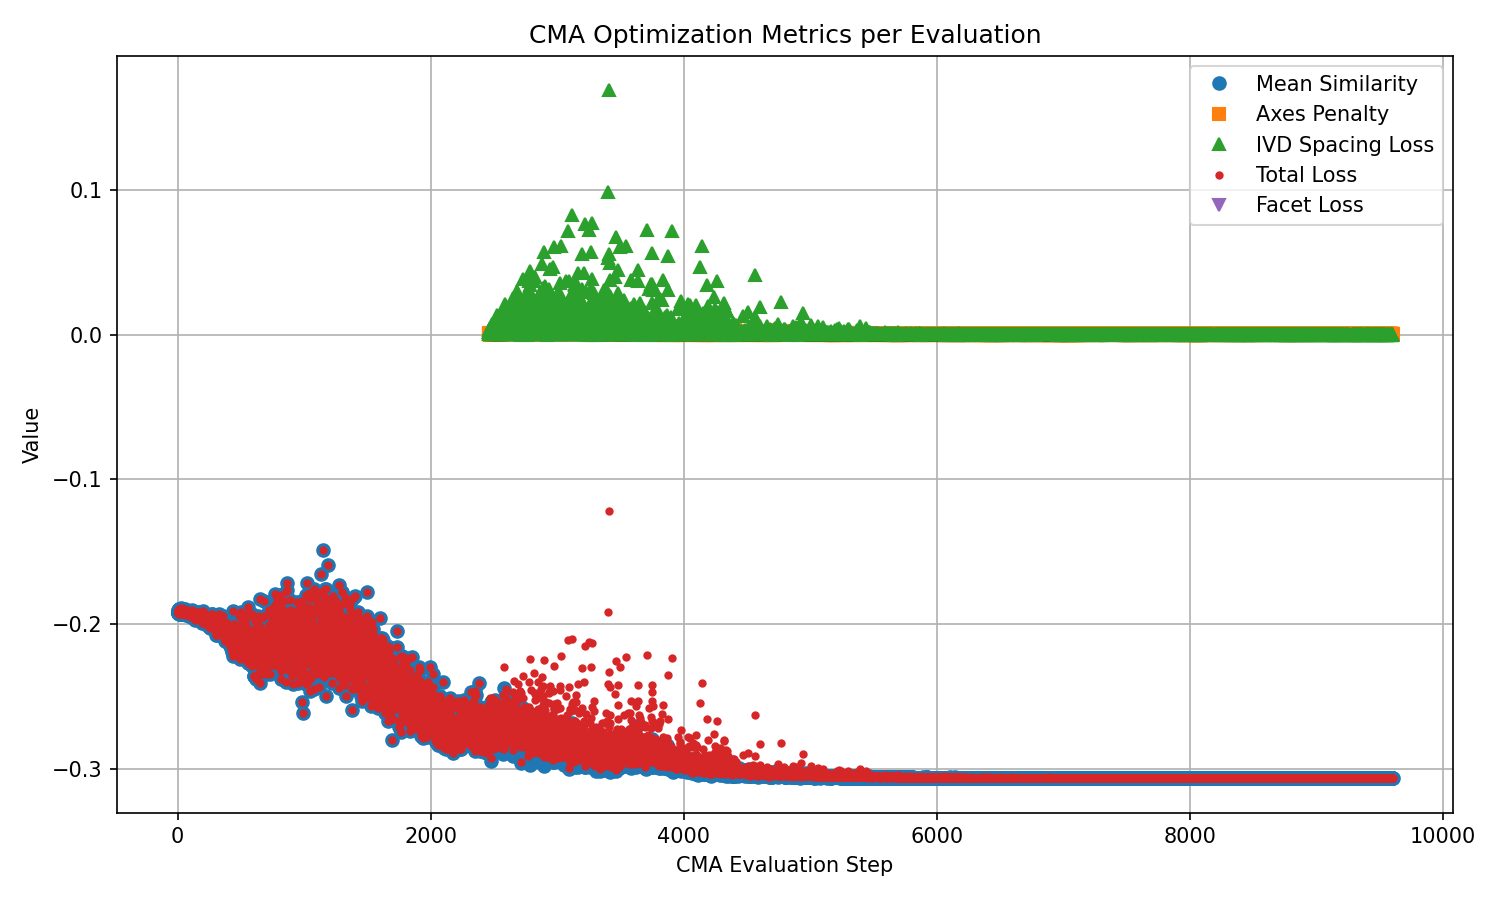
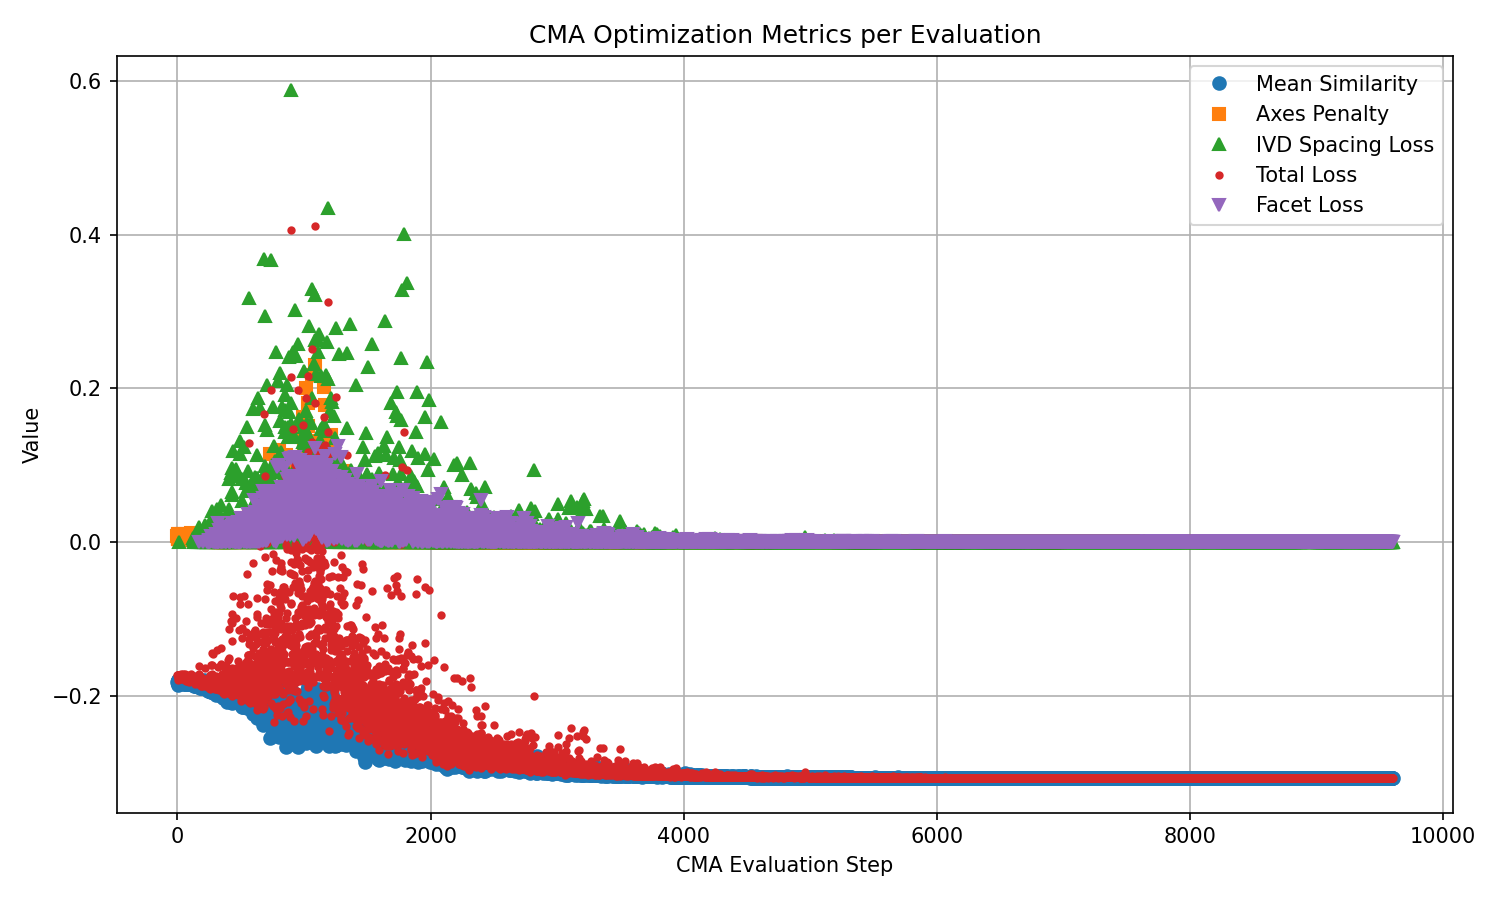
rectified US image changes, sub-mm accuracy

diff --git a/groupwise_GPU.py b/groupwise_GPU.py
@@ -54,20 +54,20 @@ def get_experiment_settings(exp_type):
     if exp_type == ExperimentType.NORMAL:
         return {
             "us_files": ["US_complete_cal.nrrd"],
-            "perturb": True,
+            "perturb": False,
             "n_runs": 1
         }
     
     if exp_type == ExperimentType.FULL_SWEEP:
         return {
-            "us_files": ["US_complete_cal.nrrd"],
+            "us_files": ["US_full_L3_dropoutref_cal.nrrd"],
             "perturb": True,
             "n_runs": 10
         }
     
     if exp_type == ExperimentType.MISSING_DATA:
         return {
-            "us_files": ["US_full_L3_dropoutref_cal.nrrd"],
+            "us_files": ["US_missing_combined.nrrd"],
             "perturb": False,
             "n_runs": 30
         }
@@ -100,7 +100,7 @@ def init_results():
     }
 
 
-def success_from_tre(tre_dict, thresh=2.0):
+def success_from_tre(tre_dict, thresh=2.01):
     """check success per vertebra and overall"""
     per_vertebra = {}
     for case, tre in tre_dict.items():
@@ -166,17 +166,27 @@ def evaluate_group_cpu(flat_params, K, centers, sampled_positions_list,
 
         valid_mask = moving_intensities > 0
         n_valid = valid_mask.sum()
+
         if n_valid > 0:
-            total_sim += float(np.mean(moving_intensities[valid_mask]))
+            # Only compute similarity on valid US data points
+            sim = float(np.mean(moving_intensities[valid_mask]))
+            total_sim += sim
             num_valid_cases += 1
 
+        # sim = float(np.mean(moving_intensities)) # original mean
+        # total_sim += sim
+        
         # move centroids
-        ct_centroid = np.array(case_centroids[k], dtype=np.float64)
-        moved_centroid = np.array(tx_inv.TransformPoint(ct_centroid.tolist()))
-        moved_centroids.append(moved_centroid)
+        ct_centroid = torch.tensor(case_centroids[k], device=device, dtype=torch.float32)
+        moved_centroid = torch.tensor(tx_inv.TransformPoint(ct_centroid.cpu().numpy().tolist()), device=device)
+        moved_centroids.append(moved_centroid.cpu().numpy())
 
-    mean_sim = total_sim / float(K)
 
+    mean_sim = (total_sim / float(K)) # original computation
+    # mean_sim = (total_sim / float(num_valid_cases)) ** 1 # other computation , was ** 1.5
+
+
+    # CONSTRAINT VALUES
     # lambda_axes = 0
     lambda_axes = 0.01
     # lambda_axes = linear_lambda(iteration, max_iter, lambda_final=0.01,  start_frac=0.25)
@@ -188,7 +198,7 @@ def evaluate_group_cpu(flat_params, K, centers, sampled_positions_list,
     # lambda_ivd  = linear_lambda(iteration, max_iter, lambda_final=0.002, start_frac=0.25)
     # lambda_ivd   = linear_lambda(iteration, max_iter, lambda_final=0.002, start_frac=0.2)
     
-    lambda_facet = 0.0
+    lambda_facet = 0.001
 
     axes_margins = {
         'LM': 2.0,
@@ -238,8 +248,8 @@ def run_single_registration(fixed_file, cases_dir, mesh_dir, output_dir, case_na
 
     # PERTURBATION
     if apply_perturbation:
-        rot   = np.deg2rad(rng.uniform(-8.0, 8.0, size=3))
-        trans = rng.uniform(-8.0, 8.0, size=3)
+        rot   = np.deg2rad(rng.uniform(-10.0, 10.0, size=3))
+        trans = rng.uniform(-10.0, 10.0, size=3)
         global_perturbation = np.concatenate([rot, trans])
         print(f"\nApplied random perturbation (seed={rng_seed}):")
         print(f"  Rotation (deg): {np.rad2deg(global_perturbation[:3])}")
@@ -250,7 +260,7 @@ def run_single_registration(fixed_file, cases_dir, mesh_dir, output_dir, case_na
     # PRE-PROCESS ULTRASOUND IMAGE
     print("Preprocessing US image...")
     preprocess_start = time.time()
-    enhanced_us_data, us_header = preprocess_US(fixed_file, False, method='none', sigma=1.0, size=5)
+    enhanced_us_data, us_header = preprocess_US(fixed_file, False, method='top-hat', sigma=1.0, size=5)
     preprocess_time = time.time() - preprocess_start
     print(f"  Preprocessing completed in {preprocess_time:.2f}s")
 
@@ -295,8 +305,8 @@ def run_single_registration(fixed_file, cases_dir, mesh_dir, output_dir, case_na
         )
         centers.append(center)
 
-        target_file = f"/usr/local/data/elise/pig_data/pig2/Registration/Known_Trans/sofa3/landmarks/US_{case}_landmarks.mrk.json"
-        source_file = f"/usr/local/data/elise/pig_data/pig2/Registration/Known_Trans/sofa3/landmarks/CT_{case}_landmarks_intra.mrk.json"
+        target_file = f"/usr/local/data/elise/pig_data/pig2/Registration/Known_Trans/sofa6/landmarks/US_{case}_landmarks.mrk.json"
+        source_file = f"/usr/local/data/elise/pig_data/pig2/Registration/Known_Trans/sofa6/landmarks/CT_{case}_landmarks_intra.mrk.json"
 
         try:
             fixed_lm_parser  = SlicerJsonTagParser(target_file)
@@ -355,7 +365,7 @@ def run_single_registration(fixed_file, cases_dir, mesh_dir, output_dir, case_na
         max_iter=max_iter,
         device='cpu',
         profile=False,
-        compression_cap = 0.7
+        compression_cap = 0.6
     )
 
     es = cma.CMAEvolutionStrategy(
@@ -368,7 +378,7 @@ def run_single_registration(fixed_file, cases_dir, mesh_dir, output_dir, case_na
             'verb_disp': 0,
             'maxiter':   max_iter,
             'tolfun':    1e-5,
-            'seed':      42
+            'seed':      None
         }
     )
 
@@ -453,9 +463,9 @@ if __name__ == "__main__":
     warnings.filterwarnings('ignore', category=DeprecationWarning)
     warnings.filterwarnings('ignore', message='.*NoneType.*check_attribute.*')
 
-    mesh_dir   = '/usr/local/data/elise/pig_data/pig2/Registration/cropped/sofa3'
-    cases_dir  = '/usr/local/data/elise/pig_data/pig2/Registration/Known_Trans/sofa3/Cases'
-    output_dir = '/usr/local/data/elise/pig_data/pig2/Registration/Known_Trans/sofa3/output_python_cma_group_allcases'
+    mesh_dir   = '/usr/local/data/elise/pig_data/pig2/Registration/cropped/sofa6'
+    cases_dir  = '/usr/local/data/elise/pig_data/pig2/Registration/Known_Trans/sofa6/Cases'
+    output_dir = '/usr/local/data/elise/pig_data/pig2/Registration/Known_Trans/sofa6/output_python_cma_group_allcases'
     os.makedirs(output_dir, exist_ok=True)
 
     case_names = sorted([
